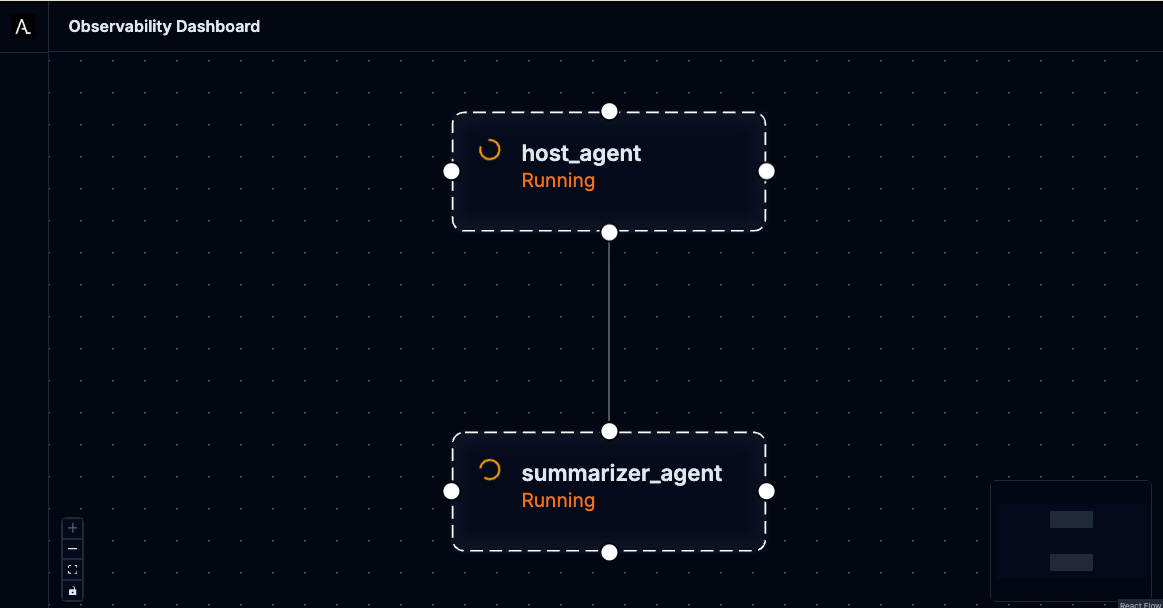
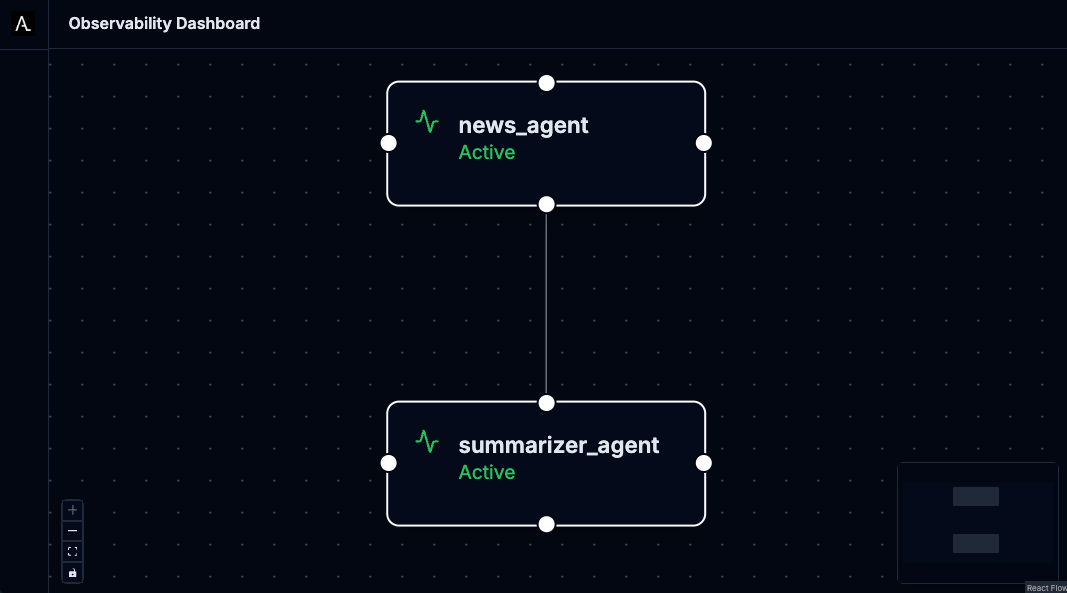
refactor: rename host_agent to news_agent in dashboard

diff --git a/agents/news-agent/news/agent.py b/agents/news-agent/news/agent.py
@@ -39,7 +39,7 @@ news_fetcher_toolset = MCPToolset(
 )
 
 root_agent = Agent(
-    name="host_agent",
+    name="news_agent",
     model=LiteLlm("gemini/gemini-2.0-flash"),
     description=(
         "Agent that can get the latest news articles and talk to other agents to summarize them."
